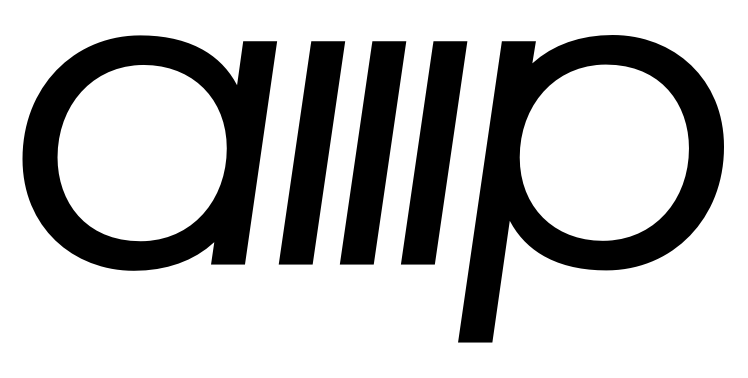
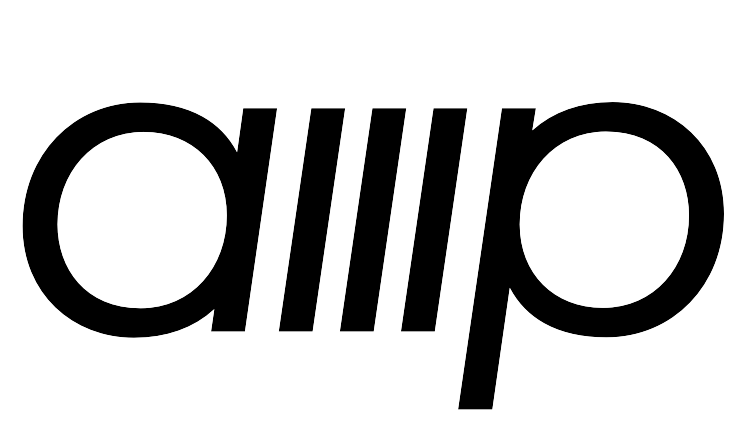
fixes for images

Changed region(s): [[0.0307, 0.0873, 0.984, 0.8439], [0.615, 0.9021, 0.6765, 0.9312]]

diff --git a/README.md b/README.md
@@ -49,14 +49,14 @@ fe2c4c8 (claude [session_id] 2025-12-02 19:25:13 -0500  142)             let fro
 <td bgcolor="#ffffff" align="center"><img src="assets/docs/agents/pi.svg" alt="Pi" height="40" /></td>
 <td bgcolor="#ffffff" align="center"><img src="assets/docs/agents/windsurf.png" alt="Windsurf" height="40" /></td>
 <td bgcolor="#ffffff" align="center"><img src="assets/docs/agents/droid.png" alt="Droid" height="40" /></td>
-<td bgcolor="#ffffff" align="center"><img src="assets/docs/agents/amp.png" alt="Amp" height="40" style="margin-top:6px" /></td>
-<td bgcolor="#ffffff" align="center"><img src="assets/docs/agents/gemini.png" alt="Gemini" height="40" style="margin-top:5px" /></td>
+<td bgcolor="#ffffff" align="center"><img src="assets/docs/agents/amp.png" alt="Amp" height="40" /></td>
+<td bgcolor="#ffffff" align="center"><img src="assets/docs/agents/gemini.png" alt="Gemini" height="40" /></td>
 </tr>
 <tr>
-<td bgcolor="#ffffff" align="center"><img src="assets/docs/agents/continue.png" alt="Continue" height="40" style="margin-top:4px" /></td>
+<td bgcolor="#ffffff" align="center"><img src="assets/docs/agents/continue.png" alt="Continue" height="40" /></td>
 <td bgcolor="#ffffff" align="center"><img src="assets/docs/agents/junie_white.png" alt="Junie" height="40" /></td>
 <td bgcolor="#ffffff" align="center"><img src="assets/docs/agents/rovodev.png" alt="Rovo Dev" height="40" /></td>
-<td bgcolor="#ffffff" align="center"><img src="assets/docs/agents/firebender.png" alt="Firebender" height="40" style="margin-top:3px" /></td>
+<td bgcolor="#ffffff" align="center"><img src="assets/docs/agents/firebender.png" alt="Firebender" height="40" /></td>
 <td align="center"><a href="https://usegitai.com/docs/cli/add-your-agent">+ Add an Agent</a></td>
 </tr>
 </table>
